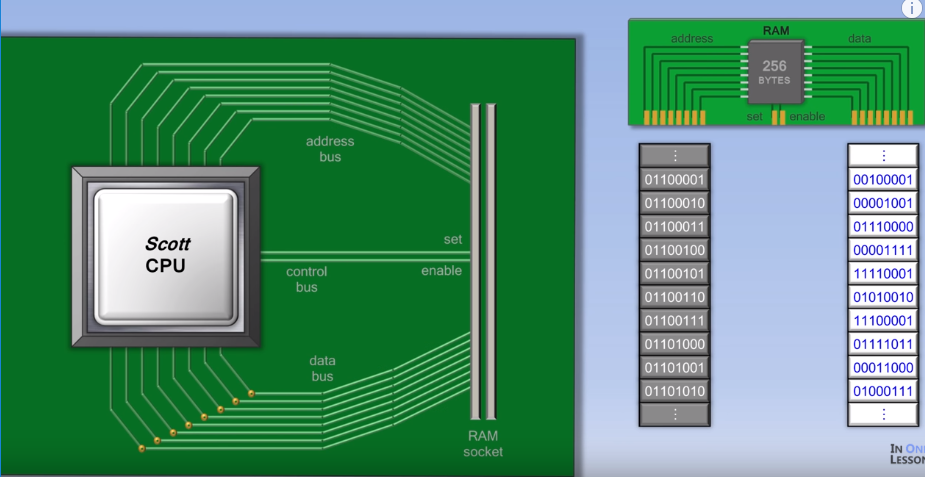
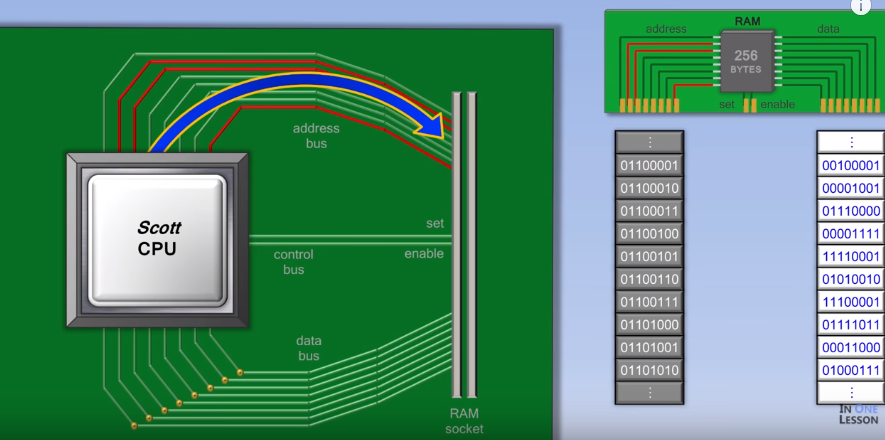
:smirk: add images and content of cpu on cpu-work

diff --git a/notes/how-does-cpu-work.md b/notes/how-does-cpu-work.md
@@ -44,7 +44,53 @@ CPU将被插入到主板（`mother board`）上，主板让计算机中的各个
 
 
 
-RAM通过地址来访问数据
+RAM通过地址一个接一个的访问数据，因此被称为随机访问存储器。
+
+![](E:\workspace\github\OS-Notes\pics\cpu-work5.png)
+
+
+
+当CPU执行程序的时候会通过发送一个地址到RAM来执行。当然有了地址也不行，必须接收到CPU发送来的`set`或者`enable`信号RAM才会真正的工作。如果**enable**线通电（有效）那RAM就会将相应地址的数据通过数据总线返回到CPU。
+
+
+
+![](E:\workspace\github\OS-Notes\pics\cpu-work6.png)
+
+
+
+CPU接受数据进行处理后，就继续发送下一个地址，然后取回数据进行处理，这个过程将不断重复。当CPU需要将数据保存时，就需要给出保存的地址、保存的数据，并且将**set**线通电（置为有效）
+
+![](E:\workspace\github\OS-Notes\pics\cpu-work7.png)
+
+
+
+RAM中的数据包含`指令`、`数据`，数据包含`数字`、`地址`、`字符`。
+
+
+
+### 指令集
+
+RAM中有一些空间是用来保存指令的。对于这些指令种类的结合我们称之为指令集，不同的CPU一般会有不同的指令集，指令集指导CPU电路如何设计实现，反过来说CPU物理上也决定了自己的指令集。
+
+
+
+一般来说大部分CPU都会有类似这几个功能的指令
+
+
+
+- LOAD ——将数据从RAM加载到CPU
+- ADD——实现两个数的求和
+- STORE——将CPU中的数据保存到RAM
+- COMPARE——比较两个数的大小用于布尔条件判断
+- JUMP IF Condition——如果满足条件则跳转到RAM中某个位置
+- OUT——输出数据到一个外设，比如说显示器
+- IN——从一个外设中读取数据，比如说键盘
+
+
+
+这些指令是大部分CPU指令集中都会有的，其他的指令可能因不同实用功能的CPU而不同。
+
+
 
 
 
